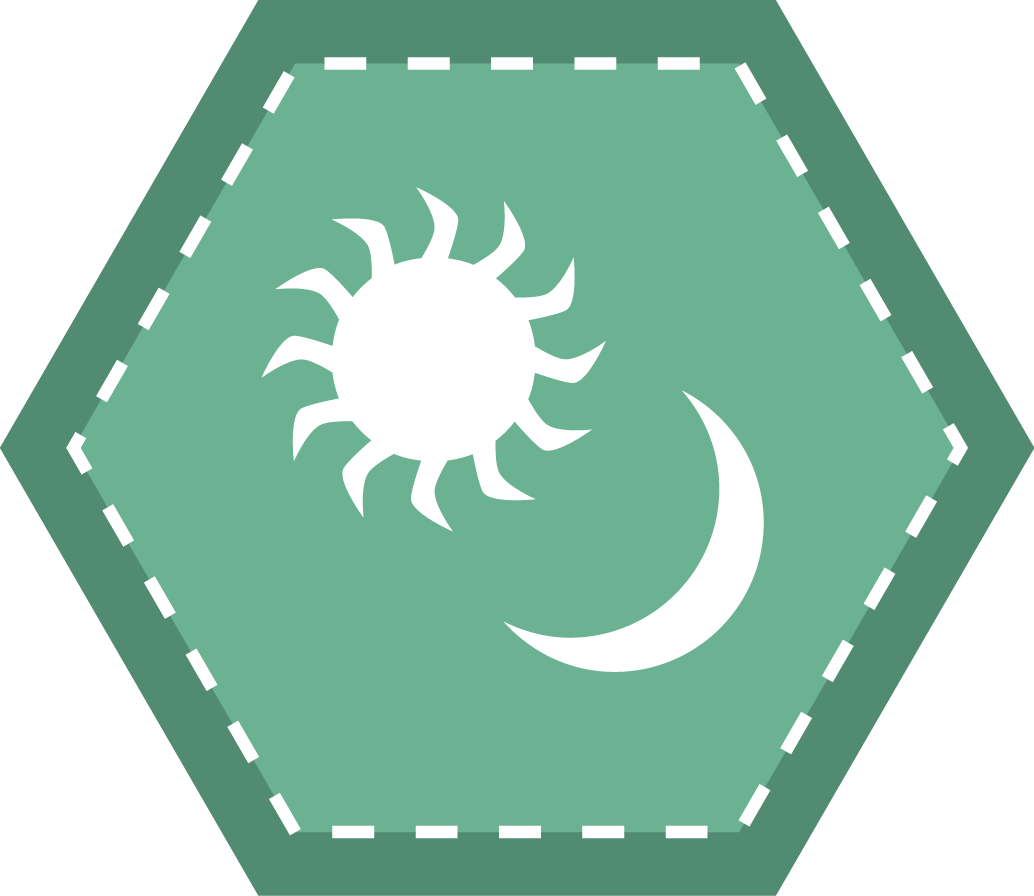
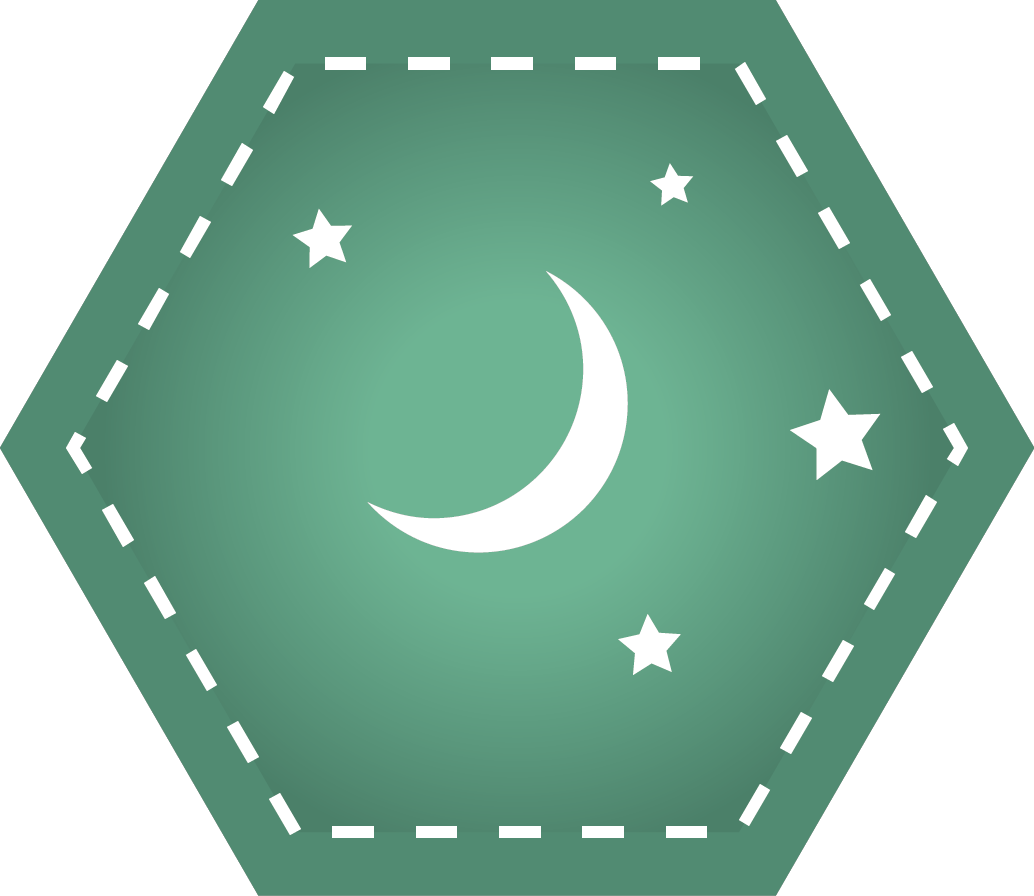
nouveaux badges temps partiel temps plein et changement de la premiere ligne de bagdes

diff --git a/famille/templates/search/results/famille.html b/famille/templates/search/results/famille.html
@@ -31,12 +31,12 @@
                             <div class="col-md-9">
                                 <div class="badges-lfo link tooltip-link"
                                      data-toggle="tooltip"
-                                     data-original-title="Je cherche quelqu'un en dernière minute">
-                                    <img src="{% static result|badge_icon_garde:'8'%}" width="90%;">
+                                     data-original-title="Je cherche quelqu'un à temps plein">
+                                    <img src="{% static result|badge_icon_garde:'0'%}" width="90%;">
                                 </div>
                                 <div class="badges-lfo link tooltip-link"
-                                     data-toggle="tooltip" data-original-title="Je cherche quelqu'un pour des gardes de nuit">
-                                    <img src="{% static result|badge_icon_garde:'7'%}" width="90%;">
+                                     data-toggle="tooltip" data-original-title="Je cherche quelqu'un à temps partiel">
+                                    <img src="{% static result|badge_icon_garde:'1'%}" width="90%;">
                                 </div>
                                 <div class="badges-lfo link tooltip-link"
                                      data-toggle="tooltip" data-original-title="Je recherche une garde partagée">
@@ -49,8 +49,8 @@
                                 </div>
                                 <div class="badges-lfo link tooltip-link"
                                      data-toggle="tooltip"
-                                     data-original-title="Je recherche quelqu’un pour garder mes enfants sur des horaires décalés (tôt le matin, tard le soir).">
-                                    <img class="none" src="{% static result|badge_icon_garde:'6' %}" width="90%;">
+                                     data-original-title="Je recherche quelqu’un pour garder mes enfants en soirée">
+                                    <img class="none" src="{% static result|badge_icon_garde:'7' %}" width="90%;">
                                 </div>
                             </div>
                         </div>

diff --git a/famille/templates/search/results/prestataire.html b/famille/templates/search/results/prestataire.html
@@ -39,12 +39,12 @@
                             <div class="col-md-9">
                                 <div class="badges-lfo link tooltip-link"
                                      data-toggle="tooltip"
-                                     data-original-title="Je suis disponible pour des dépannages">
-                                    <img src="{% static result|badge_icon_garde:'8'%}" width="90%;">
+                                     data-original-title="Je suis disponible pour un temps plein">
+                                    <img src="{% static result|badge_icon_garde:'0'%}" width="90%;">
                                 </div>
                                 <div class="badges-lfo link tooltip-link"
-                                     data-toggle="tooltip" data-original-title="Je peux faire des gardes de nuit">
-                                    <img src="{% static result|badge_icon_garde:'7'%}" width="90%;">
+                                     data-toggle="tooltip" data-original-title="Je suis disponible pour un temps partiel">
+                                    <img src="{% static result|badge_icon_garde:'1'%}" width="90%;">
                                 </div>
                                 <div class="badges-lfo link tooltip-link"
                                      data-toggle="tooltip" data-original-title="J'accepte les gardes partagées">
@@ -57,8 +57,8 @@
                                 </div>
                                 <div class="badges-lfo link tooltip-link"
                                      data-toggle="tooltip"
-                                     data-original-title="J'accepte les horaires décalés (tôt le matin ou tard le soir)">
-                                    <img class="none" src="{% static result|badge_icon_garde:'6' %}" width="90%;">
+                                     data-original-title="Je peux garder vos enfants en soirée">
+                                    <img class="none" src="{% static result|badge_icon_garde:'7' %}" width="90%;">
                                 </div>
                             </div>
                         </div>

diff --git a/famille/data.py b/famille/data.py
@@ -47,12 +47,12 @@ LANGUAGES_DICT = dict(LANGUAGES)
 TYPES_GARDE = (
     ("0", u"Garde à temps plein"),
     ("1", u"Garde à temps partiel"),
-    ("2", u"Garde en soirée"),
+    ("2", u"Garde de nuit"),
     ("3", u"Garde partagée"),
     ("4", u"Sortie d'école"),
     ("5", u"Vacances scolaires"),
     ("6", u"Garde à horaires décalés"),
-    ("7", u"Garde de nuit"),
+    ("7", u"Garde en soirée"),
     ("8", u"Garde d'urgence"),
 )
 
